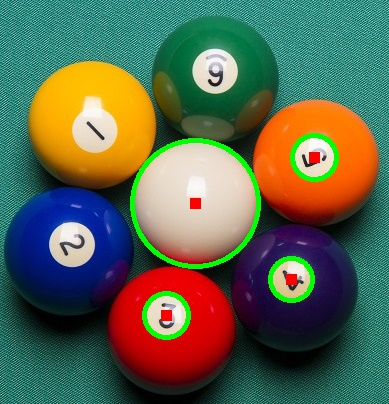
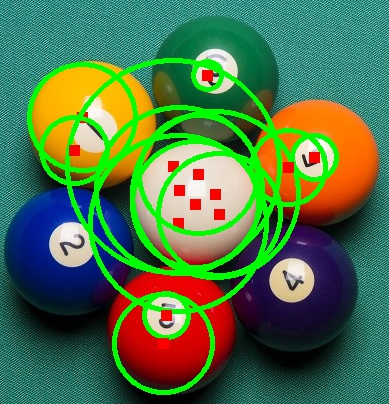
split GUI and CLI files for better organisation and usage for both

Changed region(s): [[0.0617, 0.1188, 0.8638, 0.9802], [0.617, 0.2079, 0.6478, 0.2376], [0.401, 0.8317, 0.4319, 0.8614]]

diff --git a/day2-assignment/circle_detector.py b/day2-assignment/circle_detector.py
@@ -32,14 +32,14 @@ def plot_image(img, output):
     
 
 # %%
-def detect_circles(gray):
+def detect_circles(gray, param1=100, param2=30):
     ## detect circles using HoughCircles\
     circles = cv2.HoughCircles(gray, 
                                cv2.HOUGH_GRADIENT, 
                                dp=1, 
                                minDist=20,
-                               param1=param1_slider.get(),
-                               param2=param2_slider.get(),
+                               param1=param1,
+                               param2=param2,
                                minRadius=0,
                                maxRadius=0)
     return circles[0] if circles is not None else []
@@ -108,101 +108,7 @@ def main():
         f.write("\n")
     print(f"Statistics saved at: {stats_file}")
     
-
-def cv_to_tk(img):
-    if len(img.shape) == 2:
-        img = cv2.cvtColor(img, cv2.COLOR_GRAY2RGB)
-    else:
-        img = cv2.cvtColor(img, cv2.COLOR_BGR2RGB)
-
-    img = cv2.resize(img, (360, 360))
-    h, w, _ = img.shape
-    ppm = f"P6 {w} {h} 255 ".encode() + img.tobytes()
-    return tk.PhotoImage(data=ppm, format="PPM")
-
-def select_image():
-    global img_path
-
-    img_path = filedialog.askopenfilename(
-        title="Select Image",
-        filetypes=[("Images", "*.png *.jpg *.jpeg *.bmp *.tiff")]
-    )
-
-    if not img_path:
-        return
-
-    original = cv2.imread(img_path)
-    tk_img = cv_to_tk(original)
-
-    left_img_label.config(image = tk_img)
-    left_img_label.image = tk_img
-
-def action():
-    if not img_path:
-        return
-    _, preprocessed_img = preprocess_image(img_path)
-    circles = detect_circles(preprocessed_img)
-
-
-
-    right_img = cv_to_tk(visualize_circles(cv2.imread(img_path), circles))
-
-    right_img_label.config(image=right_img)
-    right_img_label.image = right_img
-
-
-input_dir = "test-images"
-output_dir = "output-sketches"
-
-img_path = None
-
-
-root = tk.Tk()
-color_mode = tk.BooleanVar(value=False)
-root.title("Circle Detector")
-
-root.geometry("900x520")
-root.resizable(False, False)
-
-# Main container
-Main = ttk.Frame(root, padding=15)
-Main.pack(fill="both", expand=True)
-
-# Top control frame
-top = ttk.Frame(Main)
-top.pack(pady = 10)
-
-ttk.Button(top, text="Select Image", command = select_image).grid(row=0, column=0, padx=10)
-ttk.Label(top, text="Param 1").grid(row=0, column=1, padx=10)
-ttk.Label(top, text="Param 2").grid(row=0, column=2, padx=10)
-
-param1_slider = tk.Scale(top, from_=3, to=101, orient="horizontal", resolution=1)
-param1_slider.set(21)
-param1_slider.grid(row=1, column=1, padx=10)
-
-param2_slider = tk.Scale(top, from_=3, to=101, orient="horizontal", resolution=1)
-param2_slider.set(21)
-param2_slider.grid(row=1, column=2, padx=10)
-
-ttk.Button(top, text="Detect", command = action).grid(row=0, column=3, padx=10)
-ttk.Checkbutton(top, text="Color Sketch", variable = color_mode).grid(row=0, column=4, padx=10)
-
-# Image display frame
-img_frame = ttk.Frame(Main)
-img_frame.pack(pady=10)
-
-default_original_img = tk.PhotoImage(height=360, width=360)  # Placeholder for original image
-default_sketch_img = tk.PhotoImage(height=360, width=360)  # Placeholder for detected circles image
-
-left_img_label = tk.Label(img_frame, text="Original Image", background="lightgray", compound="top", image=default_original_img)
-left_img_label.grid(row=1, column=0, padx=10)
-
-right_img_label = tk.Label(img_frame, text="Detected Circles", background="lightgray", compound="top", image=default_sketch_img)
-right_img_label.grid(row=1, column=1, padx=10)
-
-root.mainloop()
-
 if __name__ == "__main__":
     ## CLI verison
-    # main()
+    main()
     pass

diff --git a/day2-assignment/circle-detector-GUI.py b/day2-assignment/circle-detector-GUI.py
@@ -1,0 +1,102 @@
+import cv2
+import matplotlib.pyplot as plt
+import numpy as np
+import os
+import tkinter as tk
+from tkinter import filedialog, ttk
+import circle_detector as cd ## import the circle detector program
+
+input_dir = 'test-images'
+output_dir = 'results'
+
+def cv_to_tk(img):
+    if len(img.shape) == 2:
+        img = cv2.cvtColor(img, cv2.COLOR_GRAY2RGB)
+    else:
+        img = cv2.cvtColor(img, cv2.COLOR_BGR2RGB)
+
+    img = cv2.resize(img, (360, 360))
+    h, w, _ = img.shape
+    ppm = f"P6 {w} {h} 255 ".encode() + img.tobytes()
+    return tk.PhotoImage(data=ppm, format="PPM")
+
+def select_image():
+    global img_path
+
+    img_path = filedialog.askopenfilename(
+        title="Select Image",
+        filetypes=[("Images", "*.png *.jpg *.jpeg *.bmp *.tiff")]
+    )
+
+    if not img_path:
+        return
+
+    original = cv2.imread(img_path)
+    tk_img = cv_to_tk(original)
+
+    left_img_label.config(image = tk_img)
+    left_img_label.image = tk_img
+
+def action():
+    if not img_path:
+        return
+    _, preprocessed_img = cd.preprocess_image(img_path)
+    circles = cd.detect_circles(preprocessed_img, param1=param1_slider.get(), param2=param2_slider.get())
+
+    right_img = cv_to_tk(cd.visualize_circles(cv2.imread(img_path), circles))
+
+    right_img_label.config(image=right_img)
+    right_img_label.image = right_img
+
+
+img_path = None
+
+
+root = tk.Tk()
+color_mode = tk.BooleanVar(value=False)
+root.title("Circle Detector")
+
+root.geometry("900x520")
+root.resizable(False, False)
+
+# Main container
+Main = ttk.Frame(root, padding=15)
+Main.pack(fill="both", expand=True)
+
+# Top control frame
+top = ttk.Frame(Main)
+top.pack(pady = 10)
+
+ttk.Button(top, text="Select Image", command = select_image).grid(row=0, column=0, padx=10)
+ttk.Label(top, text="Param 1").grid(row=0, column=1, padx=10)
+ttk.Label(top, text="Param 2").grid(row=0, column=2, padx=10)
+
+param1_slider = tk.Scale(top, from_=3, to=101, orient="horizontal", resolution=1)
+param1_slider.set(21)
+param1_slider.grid(row=1, column=1, padx=10)
+
+param2_slider = tk.Scale(top, from_=3, to=101, orient="horizontal", resolution=1)
+param2_slider.set(21)
+param2_slider.grid(row=1, column=2, padx=10)
+
+ttk.Button(top, text="Detect", command = action).grid(row=0, column=3, padx=10)
+ttk.Checkbutton(top, text="Color Sketch", variable = color_mode).grid(row=0, column=4, padx=10)
+
+# Image display frame
+img_frame = ttk.Frame(Main)
+img_frame.pack(pady=10)
+
+default_original_img = tk.PhotoImage(height=360, width=360)  # Placeholder for original image
+default_sketch_img = tk.PhotoImage(height=360, width=360)  # Placeholder for detected circles image
+
+left_img_label = tk.Label(img_frame, text="Original Image", background="lightgray", compound="top", image=default_original_img)
+left_img_label.grid(row=1, column=0, padx=10)
+
+right_img_label = tk.Label(img_frame, text="Detected Circles", background="lightgray", compound="top", image=default_sketch_img)
+right_img_label.grid(row=1, column=1, padx=10)
+
+root.mainloop()
+
+if __name__ == "__main__":
+    ## GUI version
+    pass
